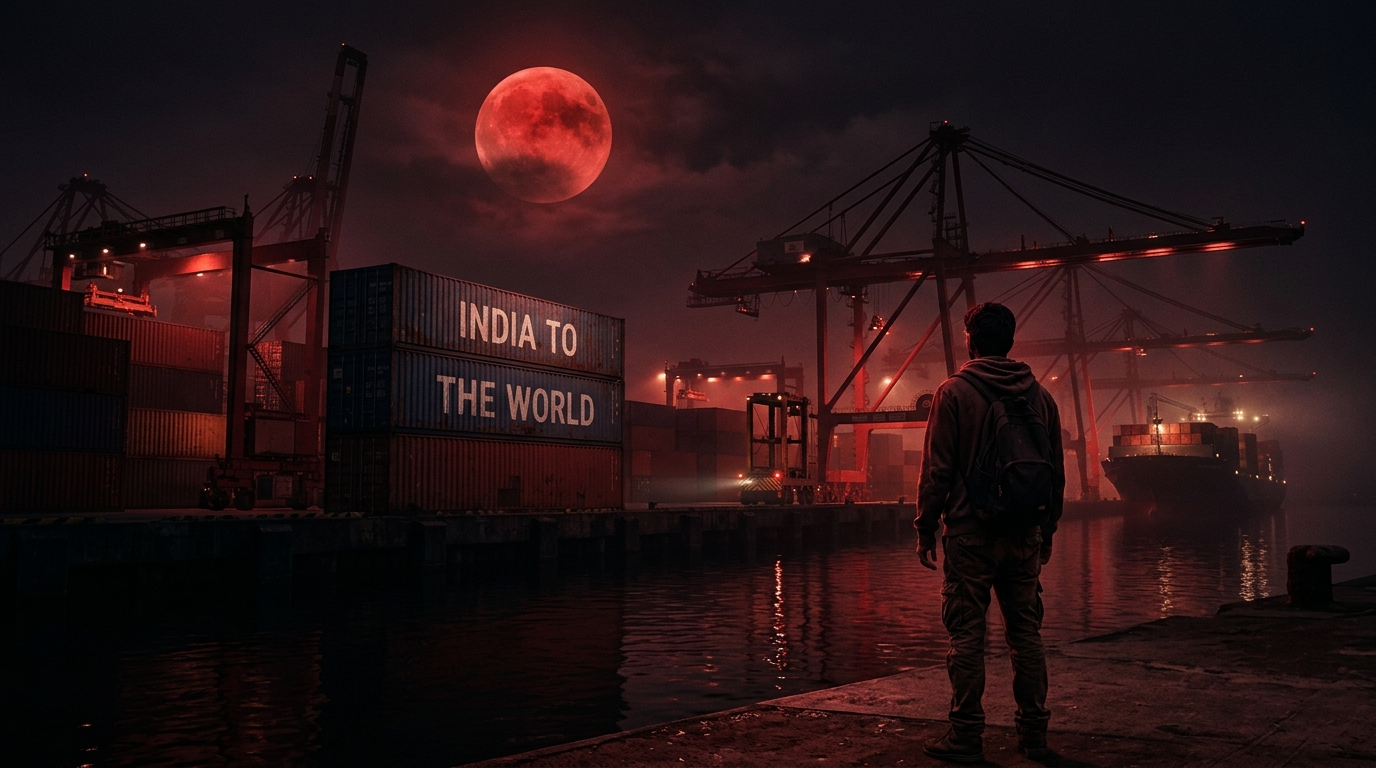
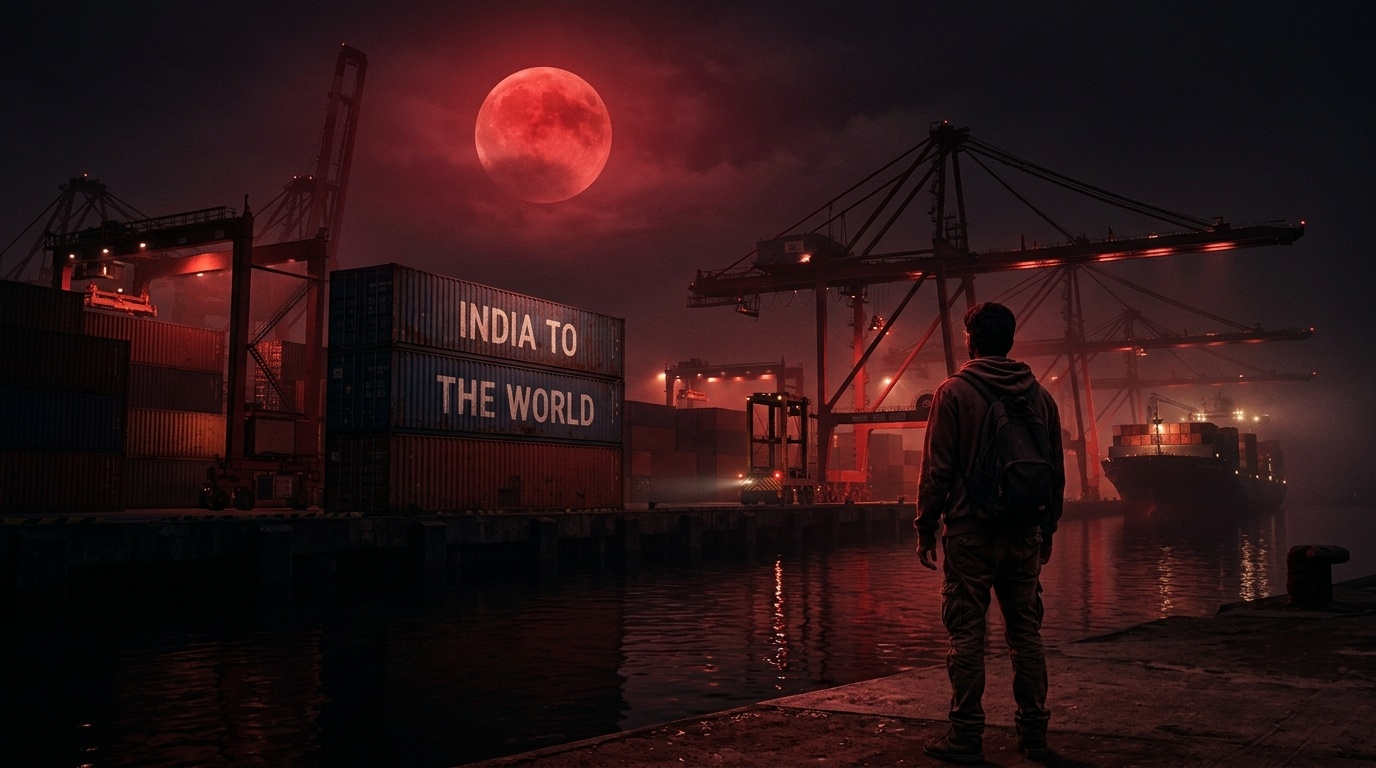
fix(landingpage): naturalize PC background glow behind moon without circular overlays

Changed region(s): [[0.2188, 0.0, 0.5938, 0.3125]]

diff --git a/src/app/landingpage/page.tsx b/src/app/landingpage/page.tsx
@@ -93,24 +93,6 @@ export default function LandingPage() {
             />
           </picture>
 
-          {/* PC VIEW: High-Intensity Glowing Blood Moon (Radiant Core + Cinematic Atmospheric Haze) */}
-          <div
-            className="hidden md:block absolute top-[16.5%] left-[39.5%] -translate-x-1/2 -translate-y-1/2 w-80 h-80 rounded-full pointer-events-none mix-blend-screen opacity-95 animate-pulse"
-            style={{
-              background:
-                "radial-gradient(circle, rgba(255,40,60,0.85) 0%, rgba(255,20,35,0.5) 40%, rgba(229,9,32,0.2) 65%, transparent 78%)",
-            }}
-            aria-hidden="true"
-          />
-          <div
-            className="hidden md:block absolute top-[16.5%] left-[39.5%] -translate-x-1/2 -translate-y-1/2 w-[720px] h-[520px] pointer-events-none mix-blend-screen opacity-85 blur-[75px]"
-            style={{
-              background:
-                "radial-gradient(ellipse 65% 55% at 50% 50%, rgba(255,30,50,0.6) 0%, rgba(229,9,32,0.3) 45%, rgba(180,0,20,0.1) 70%, transparent 85%)",
-            }}
-            aria-hidden="true"
-          />
-
           {/* MOBILE VIEW: Soft Natural Cloud Background Glow (Diffused through clouds, zero circular edges) */}
           <div
             className="md:hidden absolute top-[14.5%] left-1/2 -translate-x-1/2 -translate-y-1/2 w-[320px] h-[240px] pointer-events-none mix-blend-screen opacity-40 blur-[55px]"
@@ -121,12 +103,12 @@ export default function LandingPage() {
             aria-hidden="true"
           />
 
-          {/* Desktop Left-Side Gradient (Dark behind text, 100% open on the moon & harbor) */}
+          {/* Desktop Left-Side Gradient (Dark behind text on left, 100% open & transparent on the moon & harbor) */}
           <div
             className="hidden md:block absolute inset-0 pointer-events-none"
             style={{
               background:
-                "linear-gradient(90deg, rgba(3,3,4,0.96) 0%, rgba(3,3,4,0.85) 32%, rgba(3,3,4,0.35) 55%, rgba(3,3,4,0.1) 75%, rgba(3,3,4,0.45) 100%)",
+                "linear-gradient(90deg, rgba(3,3,4,0.96) 0%, rgba(3,3,4,0.88) 26%, rgba(3,3,4,0.2) 34%, transparent 40%, transparent 75%, rgba(3,3,4,0.45) 100%)",
             }}
           />
 
